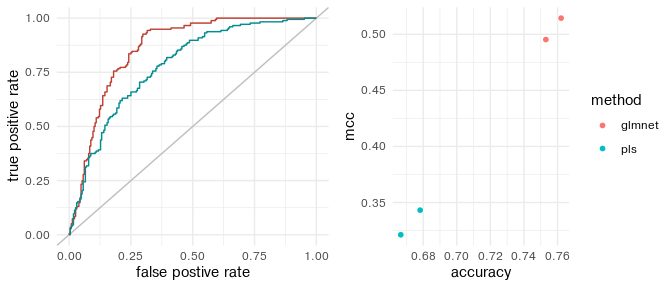
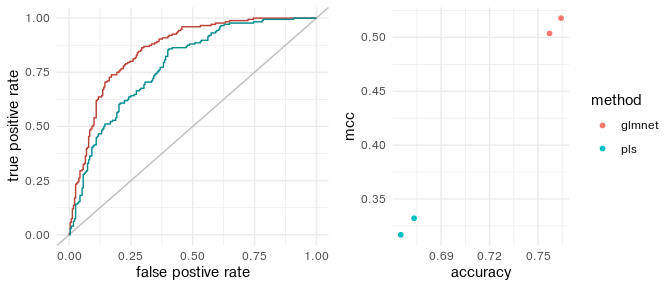
readme updated

diff --git a/README.md b/README.md
@@ -23,46 +23,60 @@ You can install the development version of rescience from
 # devtools::install_github("JohanLassen/rescience")
 ```
 
-## Example
+## Introduction
 
-This is a basic example which shows you how to solve a common problem:
+The package includes one dataset of untargeted metabolomics on autopsies
+of pneumonia deaths vs. other causes. The goal is to assist forensics
+teams in assessing whether suspicious deaths has happened from natural
+causes. To do this we can choose to use machine learning to make a
+predictor of pneumonia vs. control and extract the important features
+for model inference. Often, univariate modeling works equally well by
+using false discovery rates (fdr) - especially for data with less than
+50 observations. This package only implements the machine learning
+pipeline as we observe a general need of reproducible ML (see below).
 
 ``` r
 
 library(rescience)
 library(tidyverse)
-#> ── Attaching packages ─────────────────────────────────────── tidyverse 1.3.1 ──
-#> ✔ ggplot2 3.3.6     ✔ purrr   0.3.4
-#> ✔ tibble  3.1.7     ✔ dplyr   1.0.9
-#> ✔ tidyr   1.2.0     ✔ stringr 1.4.1
-#> ✔ readr   2.1.2     ✔ forcats 0.5.1
-#> ── Conflicts ────────────────────────────────────────── tidyverse_conflicts() ──
-#> ✖ dplyr::filter() masks stats::filter()
-#> ✖ dplyr::lag()    masks stats::lag()
 
 # dataset
-head(pneumonia[,1:10])
-#> # A tibble: 6 × 10
-#>      id group     age gender weight height   BMI M363T419 M512T603 M364T419
-#>   <dbl> <chr>   <dbl> <chr>   <dbl>  <dbl> <dbl>    <dbl>    <dbl>    <dbl>
-#> 1     1 control    87 K          74    176  23.9   39264.   11245.    7083.
-#> 2     2 control    48 K          52     NA  NA     17008.   22494.    6936.
-#> 3     3 control    53 M          80    178  25.2    6923.   55520.    2573.
-#> 4     4 control    27 M          67    171  22.9   23111.   71463.    5341.
-#> 5     5 control    27 M          81    180  25     36683.   35476.   10148.
-#> 6     6 control    49 M          NA    150  NA     24076.   34264.    5706.
+knitr::kable(head(pneumonia[,1:10]), caption = 'Feature values', align = "c")
 ```
 
-To statistically analyze this data it must undergo (1) selection of
+| id  |  group  | age | gender | weight | height |  BMI  | M363T419  | M512T603 | M364T419  |
+|:---:|:-------:|:---:|:------:|:------:|:------:|:-----:|:---------:|:--------:|:---------:|
+|  1  | control | 87  |   K    |   74   |  176   | 23.89 | 39263.557 | 11244.54 | 7082.998  |
+|  2  | control | 48  |   K    |   52   |   NA   |  NA   | 17007.974 | 22493.90 | 6935.703  |
+|  3  | control | 53  |   M    |   80   |  178   | 25.25 | 6923.392  | 55520.32 | 2572.867  |
+|  4  | control | 27  |   M    |   67   |  171   | 22.91 | 23110.664 | 71463.46 | 5341.382  |
+|  5  | control | 27  |   M    |   81   |  180   | 25.00 | 36682.675 | 35475.75 | 10147.962 |
+|  6  | control | 49  |   M    |   NA   |  150   |  NA   | 24076.265 | 34263.70 | 5705.732  |
+
+Feature values
+
+To analyze this data we use the following pipeline (1) selection of
 important variables including outcome, batch, and technical replicates,
 (2) preprocessing to ensure that all features and compounds are within
 the same range of values and to minimize batch effect, (3) perform a
 machine learning model screening to evaluate which model fits the data
-best.
+best. Point 2 and 3 requires caution to avoid overfitting the data, and
+this package tries to provide the most robust setup.
 
-Point 2 and 3 requires the analyst to be careful, read more here.
+# Motivation - Are my results reproducible?
 
-# The simple way to do it
+We see an increasing trend in using PLS-based models in metabolomics
+(PLS, PLS-DA, OPLS, and OPLS-DA). As these methods are supervised (use
+the outcome variable), it is extremely important to perform proper
+validation - ideally in the form of an independent validation set but as
+a minimum in form of cross-validation. Many studies use validation, but
+we also see a trend of including the infamous “PLS scores plots” in the
+main text as proof of “well separation of classes”. These plots are
+*never* representative of the actual performance when the number of
+observations is greatly outnumbered by the number of predictors
+(features).
+
+# Running everything in your web-browser
 
 The package is accompanied with a web app that ensures that a broad
 range of users can confidently use the methods. The app exists as an
@@ -186,10 +200,10 @@ knitr::kable(performance)
 
 | method | rep  |  accuracy |       mcc |
 |:-------|:-----|----------:|----------:|
-| glmnet | Rep1 | 0.7530253 | 0.4953219 |
-| glmnet | Rep2 | 0.7621012 | 0.5144059 |
-| pls    | Rep1 | 0.6782178 | 0.3431979 |
-| pls    | Rep2 | 0.6666667 | 0.3212393 |
+| glmnet | Rep1 | 0.7571507 | 0.5037001 |
+| glmnet | Rep2 | 0.7643014 | 0.5179183 |
+| pls    | Rep1 | 0.6732673 | 0.3320938 |
+| pls    | Rep2 | 0.6650165 | 0.3167685 |
 
 ## Plotting performance
 
@@ -198,3 +212,89 @@ plot_performance(fits)
 ```
 
 <img src="man/figures/README-unnamed-chunk-10-1.png" alt="..." width="700px" height="300px" style="display: block; margin: auto;" />
+
+# Motivation part 2
+
+## Why we should never present training data as results
+
+To showcase that the scores plots are unreliable we can generate an OPLS
+model on the true data and another OPLS model on permuted (shuffled)
+data. In the permuted data, the features contain no signal of the
+permuted outcome variable (because it is now random). It is important to
+note that we chose OPLS, but PLS produce the same results.
+
+> The only reproducible information reported by the PLS models is the Q2
+> value. This is based on cross validation of hold out data.
+
+``` r
+
+
+plot_comparison <- function(ms, nobs = NULL){
+  
+  if (is.null(nobs)){
+    nobs = nrow(ms$values)
+  } 
+  
+  # make sampler to simulate what happens for a smaller data set
+  subsample <- sample(1:nrow(ms$values), size = nobs)
+  
+  # prepare data
+  feature_values <- ms$values[subsample,]
+  outcome        <- ms$rowinfo$group[subsample]
+  outcome_perm   <- sample(outcome)
+  
+  # Model using original data
+  opls_model_true <- ropls::opls(x = feature_values, y=outcome, orthoI=1, crossvalI=5, plotI = F, fig.pdfC = "none", info.txtC = "none")
+  
+  # Model using permuted data
+  opls_model_perm <- ropls::opls(x = feature_values, y=outcome_perm, orthoI=1, crossvalI=5, plotI = F, fig.pdfC = "none", info.txtC = "none")
+
+  scores_orig <- tibble(t1    = opls_model_true@scoreMN %>% as.vector(),
+                        to1   = opls_model_true@orthoScoreMN %>% as.vector(),
+                        group = outcome 
+                        )
+  
+  scores_perm <- tibble(t1    = opls_model_perm@scoreMN %>% as.vector(),
+                        to1   = opls_model_perm@orthoScoreMN %>% as.vector(),
+                        group = outcome_perm
+                        )
+
+  original <- 
+    ggplot(scores_orig, aes(x=t1, y=to1, fill=outcome))+
+    geom_point(shape=21, color="white")+
+    stat_ellipse(geom="polygon", 
+                      alpha = 0.2,
+                      show.legend = FALSE, 
+                      level = 0.95)+
+    labs(title = "Original data", subtitle = paste("R2Y =", opls_model_true@summaryDF$`R2Y(cum)`, "and", "Q2 =", opls_model_true@summaryDF$`Q2(cum)`))
+  
+  permuted <-
+    ggplot(scores_perm, aes(x=t1, y=to1, fill=outcome_perm))+
+    geom_point(shape=21, color="white")+
+    stat_ellipse(geom="polygon", 
+                      alpha = 0.2,
+                      show.legend = FALSE, 
+                      level = 0.95)+
+    labs(title = "Permuted data", subtitle = paste("R2Y =", opls_model_perm@summaryDF$`R2Y(cum)`, "and", "Q2 =", opls_model_perm@summaryDF$`Q2(cum)`))
+  
+  legend <- cowplot::get_legend(original + theme(legend.box.margin = margin(0, 0, 0, 12)))
+  
+  plots     <- cowplot::plot_grid(original+theme(legend.position = "none"), permuted+theme(legend.position = "none"), legend, ncol=3, rel_widths = c(3, 3, .6))
+  summaries <- list("permuted" = opls_model_perm@summaryDF, "original" = opls_model_true@summaryDF) %>% bind_rows(.id="data")
+  
+  
+  return(list(plots, summaries))
+}
+
+
+plot_comparison(ms, nobs=100)
+#> [[1]]
+```
+
+<img src="man/figures/README-unnamed-chunk-11-1.png" width="100%" />
+
+    #> 
+    #> [[2]]
+    #>               data R2X(cum) R2Y(cum) Q2(cum) RMSEE pre ort pR2Y  pQ2
+    #> Total...1 permuted    0.119    0.555  -0.403 0.333   1   1 0.75 0.70
+    #> Total...2 original    0.137    0.621   0.213 0.307   1   1 0.35 0.05
